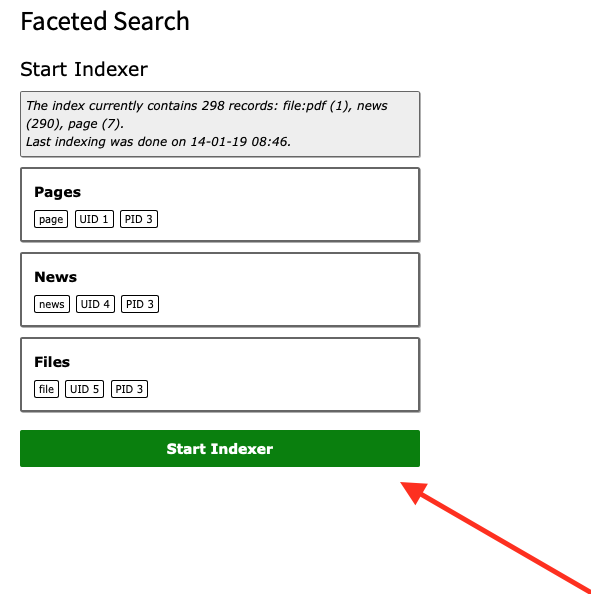
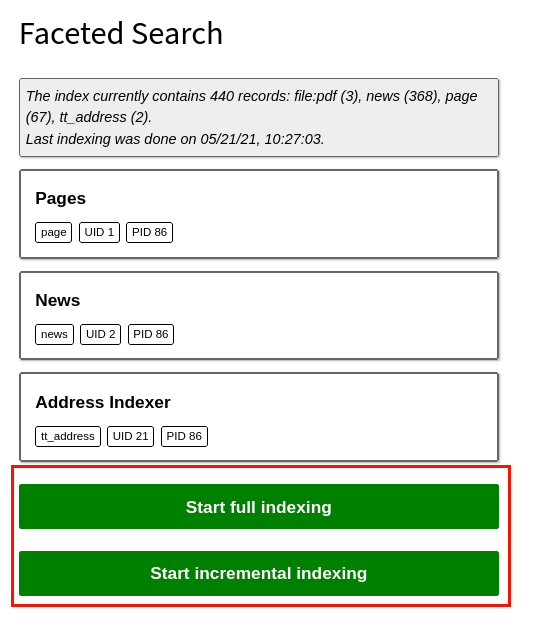
[TASK] Add documentation for incremental indexing

Changed region(s): [[0.0, 0.0, 1.0, 1.0]]

diff --git a/Documentation/Indexing/Index.rst b/Documentation/Indexing/Index.rst
@@ -8,9 +8,15 @@
 Indexing
 ========
 
-For each content type (pages, news, ...) ke_search needs an "indexer".
-Once an indexer is available, you can use it and create an "indexer configuration" to indexer your content. You will
-have to create an indexer configuration for each content type you want to index (pages, news, …). You may
+ke_search fetches content from pages, news, files etc. and stores it into an index table. This process is called
+"indexing". For each content type (pages, news etc.) ke_search needs an "indexer" (see below, "Available indexers").
+
+Whenever the content in your website changes, the indexing process needs to be started to reflect that changes in
+the search results.
+
+Creating indexer configurations
+...............................
+You will have to create an indexer configuration for each content type you want to index (pages, news, ...). You may
 create more than one indexer configuration of one type, eg. two page indexer configurations for different page trees.
 
 Use the list module an open your search storage page and create an "indexer configuration" record.
@@ -19,31 +25,74 @@ Configure the indexer configuration:
 
 * Set the title, this field is used only internally.
 * Set the storage page for the index. Set this page to your search storage folder.
-* If you are working with filters, you can define that every index entry gets a tag automatically if it has been indexed by this indexer by setting "Add tag to all indexed elements" to a filter option you like. By doing so you can for example create a filter by content type (news, page, event, ...) if you have an indexer for each content type. Please remember that you will have to create the filter options first.
+* If you are working with filters, you can define that every index entry gets a tag automatically if it has been indexed
+  by this indexer by setting "Add tag to all indexed elements" to a filter option you like. By doing so you can for
+  example create a filter by content type (news, page, event, ...) if you have an indexer for each content type. Please
+  remember that you will have to create the filter options first.
 
 The other indexer configurations options differ from type to type.
 
-Whenever the content in your website changes, the indexing process will have to be started to reflect that changes in
-the search result.
+Full indexing and incremental indexing
+......................................
 
-Manual indexing
-...............
+Since version 3.8.0 there are two ways of indexing the data: full and incremental.
+
+Incremental indexing is a lot faster than full indexing!
+
+Full indexing goes through all the data which should be indexed (records, files, custom indexers) and checks for each
+record if it has been changed or if it is new. In this case the data will be updated or stored to the index. After that
+a cleanup process is started and all old data will be deleted.
+
+The incremental indexing process fetches only the records which have been added, changed or deleted since the last
+indexing process took place. It only adds, updates or deletes those records from the index.
+
+Incremental indexing has a few drawbacks:
+
+* Not every indexer has incremental indexing capabilities. The indexer class needs to implement the method
+  *startIncrementalIndexing*. If this method does not exist, a full indexing is started for this indexer even
+  if the indexing process is started in incremental mode. Since there is no cleanup in incremental mode, *old entries
+  won't be deleted in incremental mode if the indexer does not support incremental indexing*. The indexing report
+  will mention if no incremental indexing is available ("Incremental indexing is not available for this indexer,
+  starting full indexing.")
+* Changes to files won't be recognized.
+
+Therefore it is recommended to run the full indexing process once in a while (like once a day or once a week) and run
+the incremental indexer more often (like once an hour). You can do so by creating two scheduler tasks, one for the full
+indexing and one for the incremental indexing.
+
+Starting the indexing process manually
+......................................
 
 You can start the indexing process in the ke_search backend module.
 
 .. image:: ../Images/Indexing/start-indexing.png
 
-Automated indexing
-..................
+You can also start the indexer using the command line
 
-For keeping the index up-to-date we recommend using the TYPO3 scheduler.
+.. code-block:: none
 
-ke_search comes with a task for the TYPO3 scheduler.
+	vendor/bin/typo3 ke_search:indexing
 
-* Create a new task, choose “Indexing process for ke_search (ke_search)” in field “Class” and configure the frequency as you need it (eg. hourly or daily).
-* Deactivate  the “Allow Parallel Execution” option.
+Or if you want to use the incremental mode
 
-Important: If you use the file indexer, you need to give the backend user _cli_scheduler access to all the needed file mounts.
+.. code-block:: none
+
+	vendor/bin/typo3 ke_search:indexing --indexingMode=incremental
+
+
+Starting the indexing process automatically
+...........................................
+
+For keeping the index up-to-date it is recommended to use the TYPO3 scheduler.
+
+You can execute the console command via scheduler.
+
+* Create a task, choose "Execute console commands".
+* Choose "ke_search:indexing" in the dropdown "Schedulable command".
+* After saving the form you can choose wether you want to do full indexing (default) or incremental indexing by setting the option "indexingMode" to either "full" or "incremental".
+* Deactivate  the “Allow Parallel Execution” option (default).
+
+Note the scheduler task "Indexing process for ke_search" is deprecated and will be removed in future versions. This task does not support incremental indexing.
 
 Available indexers
 ..................

diff --git a/Documentation/CommandLine/Index.rst b/Documentation/CommandLine/Index.rst
@@ -16,7 +16,7 @@ Start the indexer
 
 .. code-block:: none
 
-	bin/typo3 ke_search:indexing
+	vendor/bin/typo3 ke_search:indexing
 
 .. image:: ../Images/CommandLine/cli-start-indexing.png
 
@@ -26,7 +26,7 @@ Clear the index
 
 .. code-block:: none
 
-	bin/typo3 ke_search:clearindex
+	vendor/bin/typo3 ke_search:clearindex
 
 .. image:: ../Images/CommandLine/cli-clear-index.png
 
@@ -36,6 +36,6 @@ Remove the indexer lock
 
 .. code-block:: none
 
-	bin/typo3 ke_search:removelock
+	vendor/bin/typo3 ke_search:removelock
 
 .. image:: ../Images/CommandLine/cli-removelock.png

diff --git a/Documentation/QuickStart/Index.rst b/Documentation/QuickStart/Index.rst
@@ -50,7 +50,7 @@ step 2 (our example: 'Search data').
 
 .. image:: ../Images/QuickStart/plugins-3.png
 
-NOTE: It is useful to give the Plug-In "Searchbox and Filters" a Header (our example: 'Searchbox').
+Note: It is useful to give the Plugin "Searchbox and Filters" a header (our example: *Searchbox*, can also set to *hidden*).
 That makes it easier to identify the correct content element in the next step.
 
 .. image:: ../Images/QuickStart/plugins-2.png
